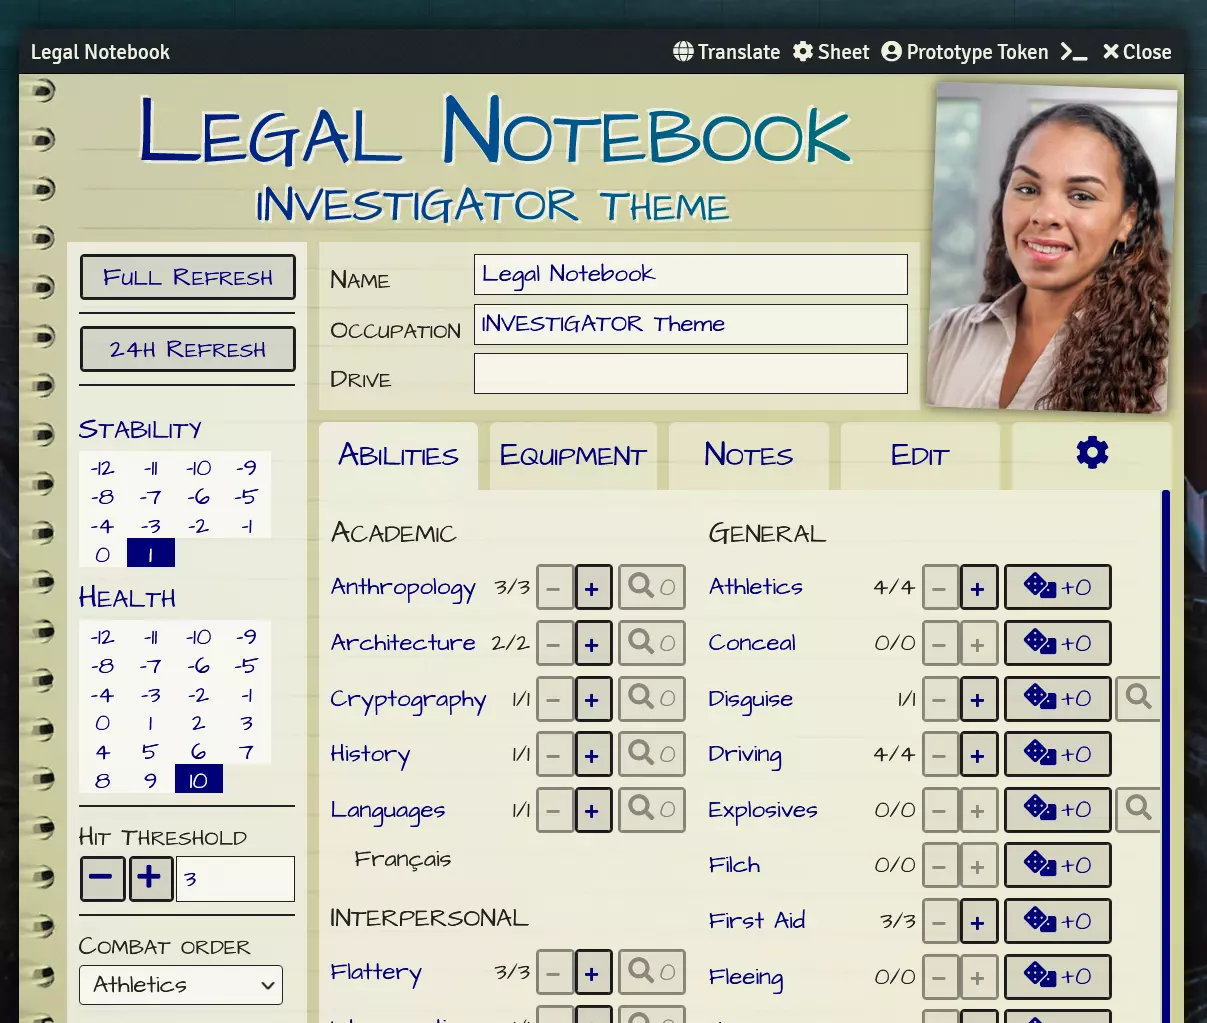
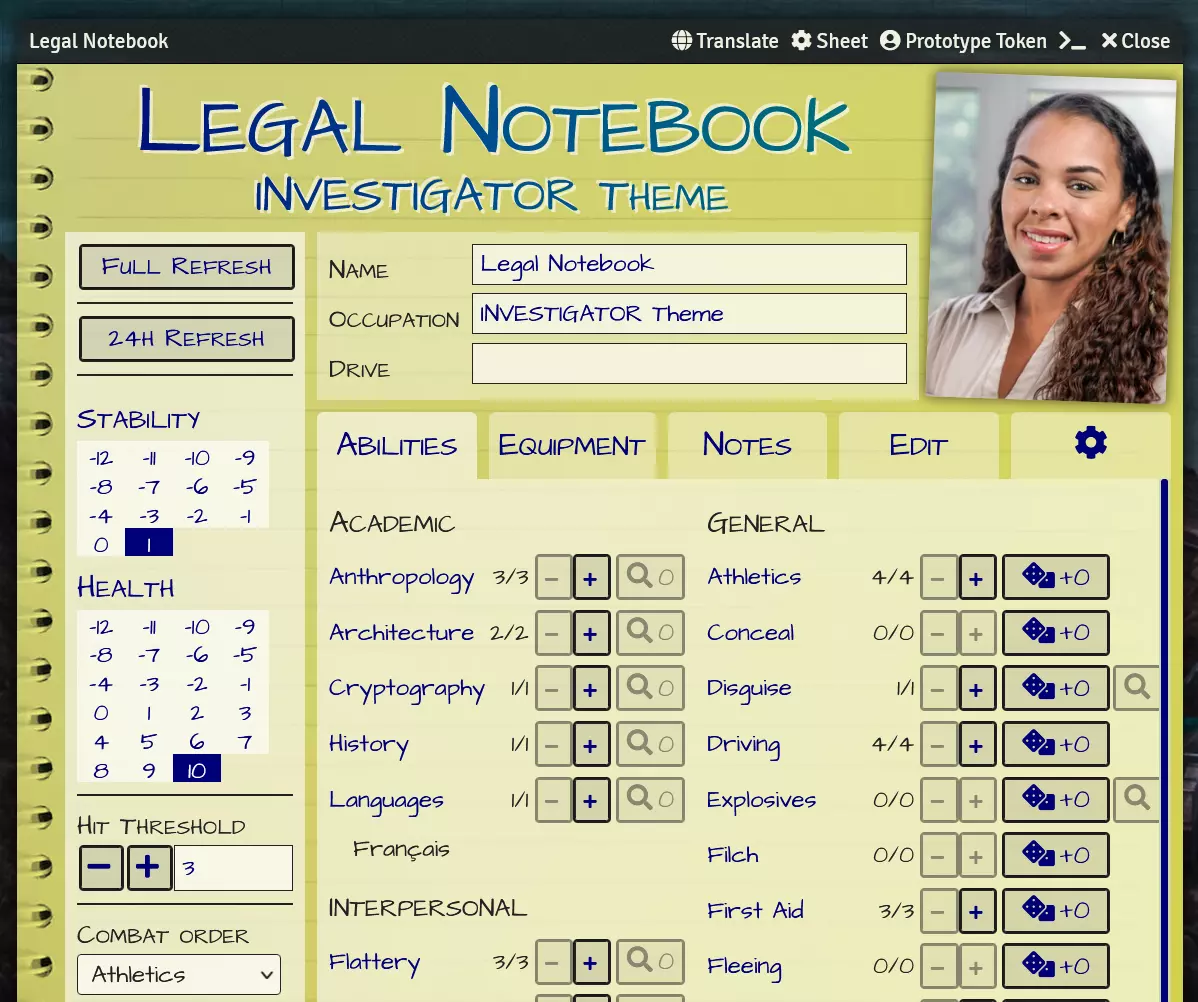
yellowier

diff --git a/src/legal-notebook-theme.ts b/src/legal-notebook-theme.ts
@@ -10,7 +10,7 @@ const seed: ThemeSeedV1 = {
     `,
     largeSheetRootStyle: {
       backgroundImage: `
-      linear-gradient(to bottom right, #ff97 0%, #ff57 100%),
+      linear-gradient(to bottom right, #ff9 0%, #ff5 100%),
         url(${assetPath}/stil-wtqe5nd5MYk-unsplash.webp)
       `,
       backgroundPosition: "center",
